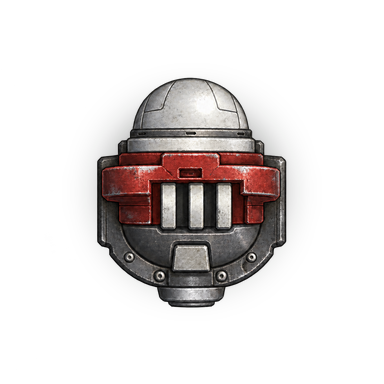
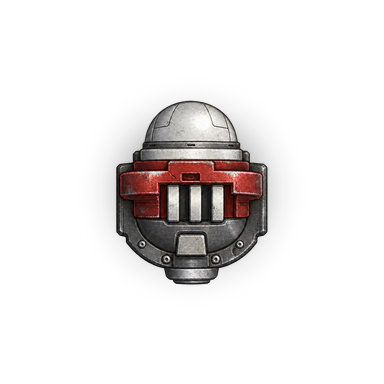
Post lasers rake like the tank's: beams open off target and drag across; hardpoint laser head at 80%
A map turret's beam now opens up to BEAM_OPEN_ARC_DEG off its target, as the tank turret system
already allows, so TurretFireSystem.fireBeam lands it short along the mount's facing and drags it
onto the target as the mount comes round, striking and scorching what it crosses. The high-tech
hardpoint's red laser head is drawn at 80% on the same pivot, its muzzle moved in to match.
Adds a rake-<look> look shot: the hardpoint raking a line of marines.

Changed region(s): [[0.25, 0.1875, 0.75, 0.8125]]

diff --git a/src/test/java/com/dillon/starsectormarines/ops/GroundTurretLookSnapshotSuite.java b/src/test/java/com/dillon/starsectormarines/ops/GroundTurretLookSnapshotSuite.java
@@ -44,6 +44,7 @@ import java.util.function.Function;
  * cannon hardpoint that shoots back and a marine on its flank, for {@code -Dsnapshot.groundTurrets.shieldSeconds=}
  * (twenty by default): the arc rising to face the squad, its blocks, its break and its return, and the flank's rounds
  * going through. {@code -Dsnapshot.groundTurrets.shield=false} leaves it out.
+ * {@code -Dsnapshot.groundTurrets.rake=true} adds a {@code rake-<look>} shot: the hardpoint raking a line of marines.
  *
  * <p>{@code -Dsnapshot.groundTurrets.fluxHardware=brutalist,modular,composite} adds a {@code flux-<style>} shot per
  * style named: three cannon hardpoints with their flux hardware cold, at about 80% and just broken.
@@ -90,6 +91,9 @@ public final class GroundTurretLookSnapshotSuite implements SnapshotSuite {
                 if (heavy.fluxShieldIn(EmplacementStyle.valueOf(look.toUpperCase())) == null) continue;
                 artifacts.addAll(LookReview.record(context.modRoot(), shieldUnderFire(look)));
             }
+        }
+        if (Boolean.parseBoolean(System.getProperty("snapshot.groundTurrets.rake", "false"))) {
+            for (String look : looks) artifacts.addAll(LookReview.record(context.modRoot(), rake(look)));
         }
         String hardware = System.getProperty("snapshot.groundTurrets.fluxHardware", "");
         if (!hardware.isBlank()) {
@@ -182,6 +186,36 @@ public final class GroundTurretLookSnapshotSuite implements SnapshotSuite {
         }, placement -> List.of(
                 LookReview.View.close("close", placement.site().x(21f), placement.site().y(11f), 26f)),
                 firingTicks(), 1, 3).withStills(firingStills());
+    }
+
+    /**
+     * A 40x22 window on arid ground: the cannon hardpoint built in {@code look} at the west, laid north, and a line of
+     * eight marines across open ground twenty cells east of it, north to south (bodies, not squads, so only the gun
+     * fires). Each dies in a few hits, so the gun comes round from one to the next: a beam opens off target and rakes
+     * along the line, scorching the ground it crosses. Played eight seconds at one frame a tick.
+     */
+    private static LookReview.Shot rake(String look) {
+        LookGround ground = LookGround.of(SurfacePalette.ARID, 7L);
+        return new LookReview.Shot("rake-" + look, ground, 40, 22, placement -> {
+            SceneBuilder builder = placement.builder();
+            placement.holdouts(builder);
+            BattleSimulation sim = builder.build().sim();
+            float[] at = placement.openNear(11f, 11f);
+            long id = sim.spawn(MapTurret.create("raker", Faction.DEFENDER, built("heavy", look), (int) at[0], (int) at[1]));
+            sim.setStructureStyle(id, EmplacementStyle.valueOf(look.toUpperCase()));
+            sim.getGrid().setWalkable((int) at[0], (int) at[1], false);
+            sim.turretState().setFacingDegrees(id, 0f);
+            for (int t = 0; t < 8; t++) {
+                float[] cell = placement.openNear(31f, 4f + t * 2f);
+                EntitySpec target = new EntitySpec("line" + t, Faction.MARINE, UnitType.MARINE, (int) cell[0], (int) cell[1]);
+                target.moveSpeed = 0f;
+                target.attackRange = 0f;
+                sim.spawn(target);
+            }
+            return sim;
+        }, placement -> List.of(
+                LookReview.View.close("close", placement.site().x(21f), placement.site().y(11f), 30f)),
+                Math.round(8f / BattleSimulation.TICK_DT), 1, 3).withStills(70, 100, 130, 200);
     }
 
     /**

diff --git a/src/main/java/com/dillon/starsectormarines/battle/turret/TurretBehavior.java b/src/main/java/com/dillon/starsectormarines/battle/turret/TurretBehavior.java
@@ -93,6 +93,9 @@ public final class TurretBehavior implements UnitBehavior {
         s.target = sim.targetOf(u);
         s.indirectFire = weapon.indirectFire;
         s.tracksFliers = weapon.tracksFliers();
+        // A beam opens off target, as a tank's lance does: it lands short and rakes across onto its target as the
+        // mount comes round, striking and scorching what it crosses (TurretFireSystem.fireBeam).
+        if (weapon.hitscanBeam()) s.fireArcDeg = TurretAim.BEAM_OPEN_ARC_DEG;
         if (tube != null) {
             // A tube fires for the squad that serves it: what that squad believes, and
             // nothing it has not been shown. A lone gunner works it at a slower cycle.

diff --git a/art-source/ground-turrets/laser/export_laser.py b/art-source/ground-turrets/laser/export_laser.py
@@ -29,7 +29,7 @@ PPC = 128
 HEADS = {
     "pd-laser": (ROOT / "art-source" / "vehicles" / "tank-laser" / "pd-skin-tt-raw.png", -90, 160, 0.78, 0.24),
     "burst-laser": (HERE / "burstpd-raw.png", 0, 160, 0.86, 0.26),
-    "heavy-laser": (ROOT / "art-source" / "vehicles" / "tank-laser" / "pd-skin-red-raw.png", -90, 384, 1.8, 0.22),
+    "heavy-laser": (ROOT / "art-source" / "vehicles" / "tank-laser" / "pd-skin-red-raw.png", -90, 384, 1.44, 0.18),
 }
 
 

diff --git a/roadmap/air/stories/ground-turret-tiers.md b/roadmap/air/stories/ground-turret-tiers.md
@@ -162,6 +162,11 @@ graphite and cyan (`art-source/ground-turrets/laser/`):
 - **Hardpoint:** the laser tank's own red PD laser, turret and weapon, at hardpoint size
   (`structure.hardpoint-laser`) for the cannon hardpoint, behind its flux shield.
 
+Every post laser rakes as a tank's lance does: a beam opens up to 20 degrees off its target, lands
+short along the mount's facing and drags across onto it as the mount comes round, striking and
+scorching whatever it crosses (`TurretBehavior`, `TurretFireSystem.fireBeam`). A line of infantry
+is raked from one to the next; `-Dsnapshot.groundTurrets.rake=true` renders it.
+
 Laser heads have no recoil and no barrel layer. A first-pass balance, matched to the damage per
 second of the guns they replace, to be moved by play. Missions that spawn guns directly (not
 through a post) are unchanged; the Locust hardpoint keeps its missiles.
